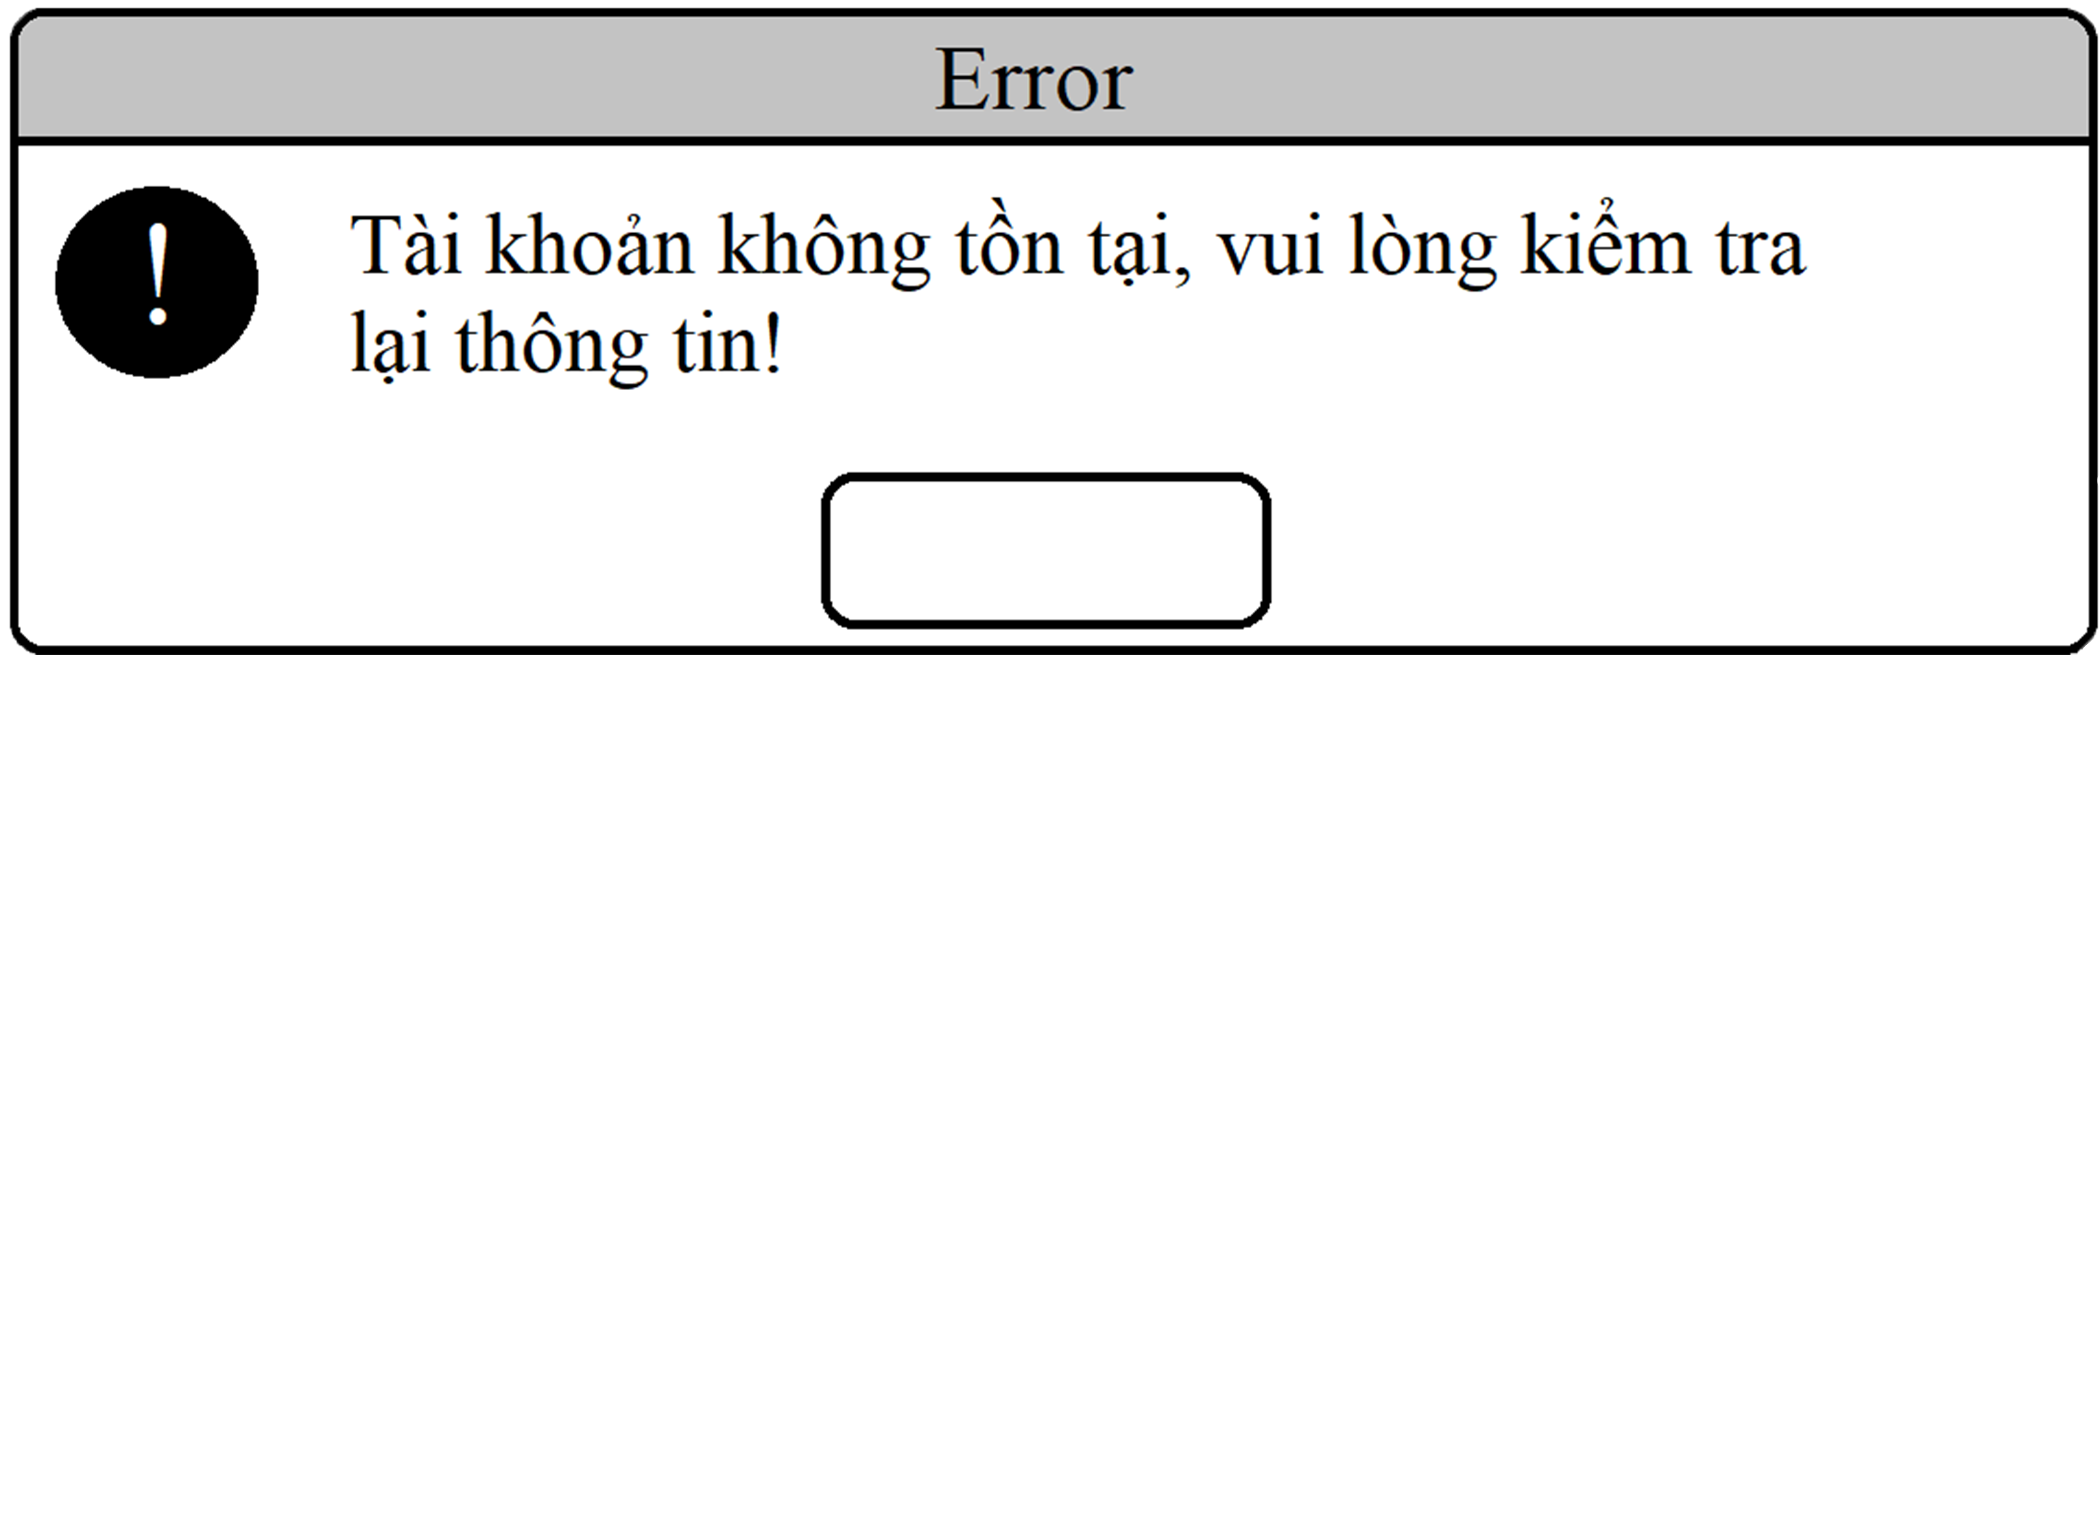
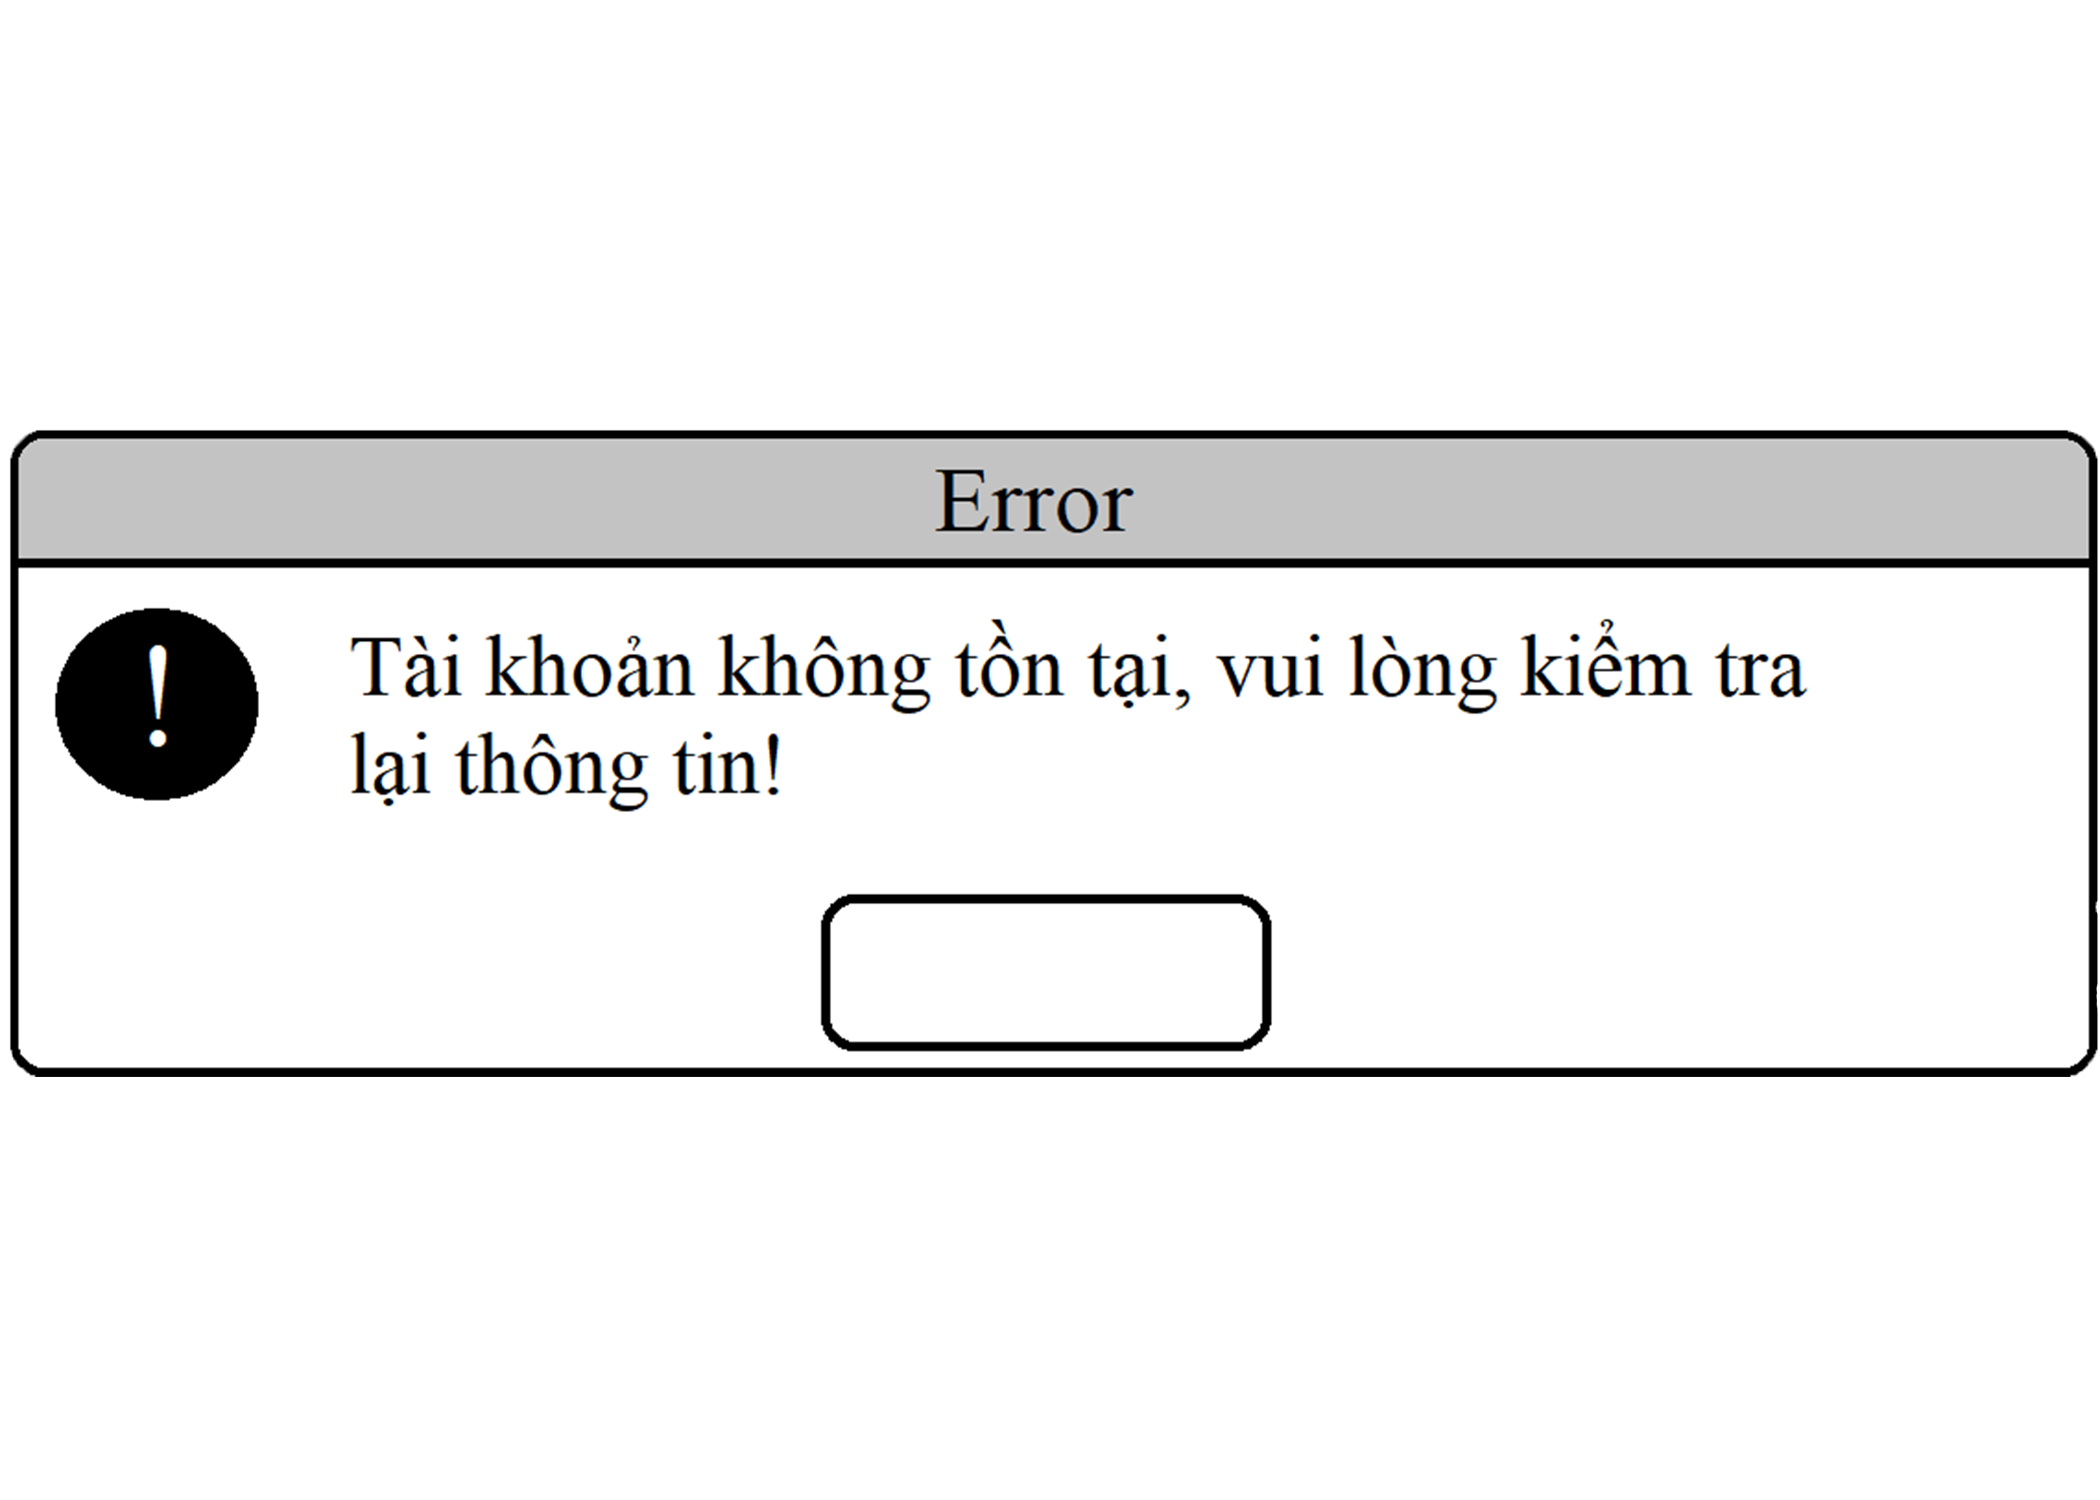
sửa lại form cho đúng + thêm hàm tìm user

Changed region(s): [[0.0, 0.0, 1.0, 0.736]]

diff --git a/libs/WARUserData.py b/libs/WARUserData.py
@@ -75,8 +75,8 @@ class ReadUsersData:
             i = i + len(userIDTitle)
             user.append(User())
             user[len(user) - 1].ID = ReadUsersData.StringCopy(data, i)
-            a = user[0].ID
-            print(user[0].ID)
+            #a = user[0].ID
+            #print(user[0].ID)
         else:
             return -1
 
@@ -85,8 +85,8 @@ class ReadUsersData:
         if (ReadUsersData.StringCompare(data, nameTitle, i)):
             i = i + len(nameTitle)
             user[len(user) - 1].name = ReadUsersData.StringCopy(data, i)
-            a = user[0].name
-            print(user[0].name)
+            #a = user[0].name
+            #print(user[0].name)
         else:
             return -1
 
@@ -95,8 +95,8 @@ class ReadUsersData:
         if (ReadUsersData.StringCompare(data, passTitle, i)):
             i = i + len((passTitle))
             user[len(user) - 1].password = ReadUsersData.StringCopy(data, i)
-            a = user[0].password
-            print(user[0].password)
+            #a = user[0].password
+            #print(user[0].password)
         else:
             return -1
 
@@ -105,8 +105,8 @@ class ReadUsersData:
         if (ReadUsersData.StringCompare(data, coinsTitle, i)):
             i = i + len((coinsTitle))
             user[len(user) - 1].coins = ReadUsersData.StringCopy(data, i)
-            a = user[0].coins
-            print(user[0].coins)
+            #a = user[0].coins
+            #print(user[0].coins)
         else:
             return -1
 
@@ -115,8 +115,8 @@ class ReadUsersData:
         if (ReadUsersData.StringCompare(data, playTimeTitle, i)):
             i = i + len((playTimeTitle))
             user[len(user) - 1].playTime = ReadUsersData.StringCopy(data, i)
-            a = user[0].playTime
-            print(user[0].playTime)
+            #a = user[0].playTime
+            #print(user[0].playTime)
         else:
             return -1
 
@@ -125,8 +125,8 @@ class ReadUsersData:
         if (ReadUsersData.StringCompare(data, winrateTitle, i)):
             i = i + len((winrateTitle))
             user[len(user) - 1].winrate = ReadUsersData.StringCopy(data, i)
-            a = user[0].winrate
-            print(user[0].winrate)
+            #a = user[0].winrate
+            #print(user[0].winrate)
         else:
             return -1
 
@@ -182,12 +182,39 @@ class WriteUsersData:
 
     pass
 
+class FindUser:
+    def FindUser(listUser, x):   #return -1 if not exist    -2 if wrong pass    or poss of user in list
+        i = 0
+        exist = False
+        rightPass = False
+        poss = 0
+        while i < len(listUser):
+            if(listUser[i].userName == x.userName):
+                exist = True
+                poss = i
+                break
+
+        if not exist:
+            return -1
+
+        if listUser[poss].password != x.password:
+            return -2
+        return poss
+
 '''
 user = []
 if(ReadUsersData.GetAllUsersData(user) != -1):
 
     WriteUsersData.WriteAllUsersData(user)
-    '''
+
+for a in user:
+    print(a.ID)
+    print(a.name)
+    print(a.password)
+    print(a.coins)
+    print(a.playTime)
+    print(a.winrate)
+'''
 
 
 

diff --git a/libs/LoginPage.py b/libs/LoginPage.py
@@ -27,7 +27,7 @@ class LoginPage():
         self.passWordInput = TextView(self.GAME_WIDTH / 2.5, self.GAME_HEIGHT / 2.1, 10, 10, "Enter your password")
         self.signinText = TextView(self.GAME_WIDTH / 3, self.GAME_HEIGHT / 1.656, 10, 10, "Sign in")
         self.signupText = TextView(self.GAME_WIDTH / 1.7, self.GAME_HEIGHT / 1.656, 10, 10, "Sign up")
-        self.OKText = Button(self.GAME_WIDTH / 2.05, self.GAME_HEIGHT / 2.43, 10, 10, "OK")
+        self.OKText = Button(self.GAME_WIDTH / 2.05, self.GAME_HEIGHT / 1.8, 10, 10, "OK")
 
         pass
 
@@ -86,4 +86,4 @@ class LoginPage():
         pass
 
 a = LoginPage()
-a.drawAccNotExistPage()
+a.drawWrongPassPage()

diff --git a/main.py b/main.py
@@ -93,7 +93,7 @@ while not finish:
 
     pygame.display.flip()
     #pygame.display.update(list_area_to_be_update_display)
-    # time.sleep(1) # sleep 1 sec
+    #time.sleep(1) # sleep 1 sec
 
 
 pygame.quit()
